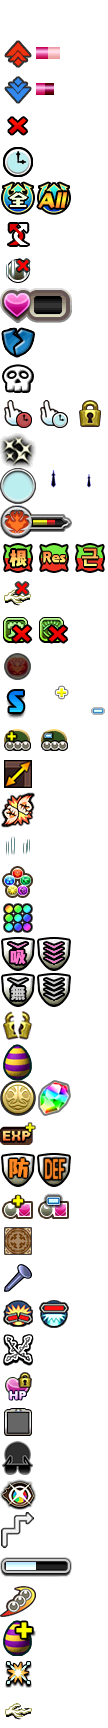
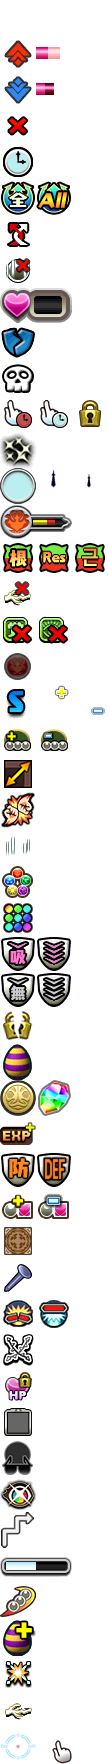
增加指定起手位置的主动技

diff --git a/script-skill-parser.js b/script-skill-parser.js
@@ -489,6 +489,7 @@ const SkillKinds = {
 	BreakingShield: "breaking-shield",
 	PlayVoice: "play-voice",
 	TimesLimit: "times-limit",
+	FixedStartingPosition: "fixed-starting-position",
 }
 
 function skillParser(skillId)
@@ -1093,8 +1094,8 @@ function breakingShield(value) {
 function timesLimit(turns) {
 	return { kind: SkillKinds.TimesLimit, turns };
 }
-function timesLimit(turns) {
-	return { kind: SkillKinds.TimesLimit, turns };
+function fixedStartingPosition() {
+	return { kind: SkillKinds.FixedStartingPosition };
 }
 
 const skillObjectParsers = {
@@ -1775,6 +1776,8 @@ const skillObjectParsers = {
 	},
 	//一回合内使用几次技能才有倍率的队长技。
 	[270](times, atk, rcv) { { return powerUp(Bin.unflags(31), null, p.mul({ atk: atk || 100, rcv: rcv || 100 }), c.useSkill(times)); } },
+	//固定起手位置
+	[273](turns) {return activeTurns(turns, fixedStartingPosition()); },
 
 	[1000](type, pos, ...ids) {
 		const posType = (type=>{
@@ -2925,6 +2928,13 @@ function renderSkill(skill, option = {})
 				turns
 			};
 			frg.ap(tsp.skill.times_limit(dict));
+			break;
+		}
+		case SkillKinds.FixedStartingPosition: { //固定起手位置
+			let dict = {
+				icon: createIcon(skill.kind)
+			};
+			frg.ap(tsp.skill.fixed_starting_position(dict));
 			break;
 		}
 		

diff --git a/script-json_data.js b/script-json_data.js
@@ -159,6 +159,7 @@ let localTranslating = {
 			prediction_falling: tp`${'icon'}Prediction of falling on board`,
 			play_voice: tp`Play voice of the phase ${'stage'} of active skill ${'icon'}`,
 			times_limit: tp`[Number of times skill can be used: ${'turns'}]`,
+			fixed_starting_position: tp`${'icon'}Fixed starting position`,
 		},
 		power: {
 			unknown: tp`[ Unkonwn power up: ${'type'} ]`,
@@ -2739,6 +2740,13 @@ const specialSearchFunctions = (function() {
 						}
 						return `[${width}×${height}]×${sk[0]}T`;
 					}
+				},
+				{name:"Fixed starting position",otLangName:{chs:"固定起手位置",cht:"固定起手位置"},
+					function:cards=>cards.filter(card=>{
+					const searchTypeArray = [273];
+					const skill = getCardActiveSkill(card, searchTypeArray);
+					return skill;
+					})
 				},
 			]},
 			{group:true,name:"Orbs Drop",otLangName:{chs:"珠子掉落 类",cht:"珠子掉落 類"}, functions: [

diff --git a/style.css b/style.css
@@ -5124,3 +5124,24 @@ body.external-link-support #external-support{
 {
 	background-position-y:calc(-36px * 46);
 }
+
+.icon-skill[data-icon-type="fixed-starting-position"]::before,
+.icon-skill[data-icon-type="fixed-starting-position"]::after{
+	content: "";
+	position: absolute;
+	top: 0;
+	left: 0;
+	background-position-y:calc(-36px * 48);
+}
+
+.icon-skill[data-icon-type="fixed-starting-position"]::before
+{
+	animation: rotate-animate 5s infinite linear;
+}
+.icon-skill[data-icon-type="fixed-starting-position"]::after
+{
+	background-position-x:calc(-36px * 1);
+	animation: hidden-visible-animate 0.3s infinite alternate ease-out;
+}
+
+/*animation: rotate-animate 5s infinite linear;*/

diff --git a/languages/zh-hans.js b/languages/zh-hans.js
@@ -144,6 +144,7 @@ const _localTranslating = {
 			prediction_falling: tp`盘面上可以${'icon'}预知宝珠掉落`,
 			play_voice: tp`播放第 ${'stage'} 阶段的语音 ${'icon'}`,
 			times_limit: tp`【使用次数限制：${'turns'}】`,
+			fixed_starting_position: tp`${'icon'}固定起手位置`,
 		},
 		power: {
 			unknown: tp`[ 未知能力提升: ${'type'} ]`,

diff --git a/languages/zh-hant.js b/languages/zh-hant.js
@@ -143,6 +143,7 @@ const _localTranslating = {
 			prediction_falling: tp`盤面上可以${'icon'}預知寶珠掉落`,
 			play_voice: tp`播放第 ${'stage'} 階段的語音 ${'icon'}`,
 			times_limit: tp`【使用次數限制：${'turns'}】`,
+			fixed_starting_position: tp`${'icon'}固定起手位置`,
 		},
 		power: {
 			unknown: tp`[ 未知能力提升: ${'type'} ]`,
